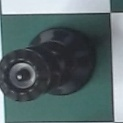
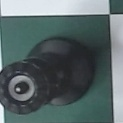
added all training data for black queen

diff --git a/brain.py b/brain.py
@@ -212,7 +212,7 @@ def main():
                     square.saveImage(squares)
                 return
                 '''
-                collect2PData(board, squares, 63, 63 , "white", "queen", 8, 8)
+                collect2PData(board, squares, 63, 63, "black", "queen", 8, 8)
                 #collectData(board, squares)
                 cv2.imshow("Frame", squares[22:136, 517:640])
                 if cv2.waitKey(1) & 0xFF == ord('q'):
